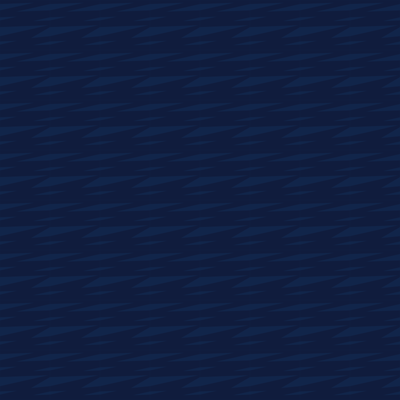
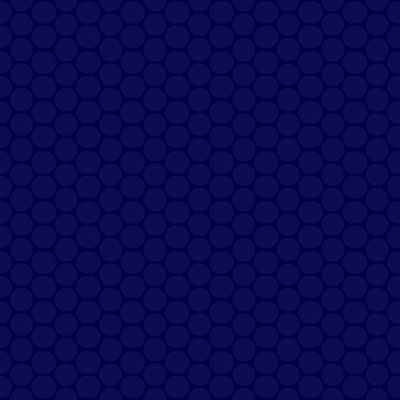
Media Change

diff --git a/public/homepage/assets/css/demos/demo-hotel.css b/public/homepage/assets/css/demos/demo-hotel.css
@@ -1,6 +1,36 @@
-html.boxed {
-    background-image: url("../../img/demos/hotel/patterns/pattern.jpg") !important;
-}
+/* html.boxed {
+    background-image: url("../../img/patterns/dragon-scales.svg") !important;
+    /* background-image: url("../../img/patterns/subtle-prism.svg") !important; */
+
+
+/* background-image: url("../../img/patterns/protruding-squares.svg") !important; */
+
+
+/* background-image: url("../../img/patterns/rainbow-vortex.svg") !important; */
+
+
+/* background-image: url("../../img/patterns/quantum-gradient.svg") !important; */
+
+
+/* background-image: url("../../img/patterns/hollowed-boxes.svg") !important; */
+
+
+/* background-size: 100%;
+    background-repeat: no-repeat;
+    background-attachment: fixed;
+    background-position: center top;
+    -webkit-background-size: cover;
+    -moz-background-size: cover;
+    background-size: cover;
+    opacity: 0.95;
+    -webkit-backface-visibility: hidden;
+    -webkit-background-size: cover !important;
+    z-index: -1;
+    -webkit-transform: translate3d(0, 0);
+    width: 100%;
+    height: 100%;
+    margin: 0 auto;
+} */
 
 html.boxed .body {
     border: 0 !important;
